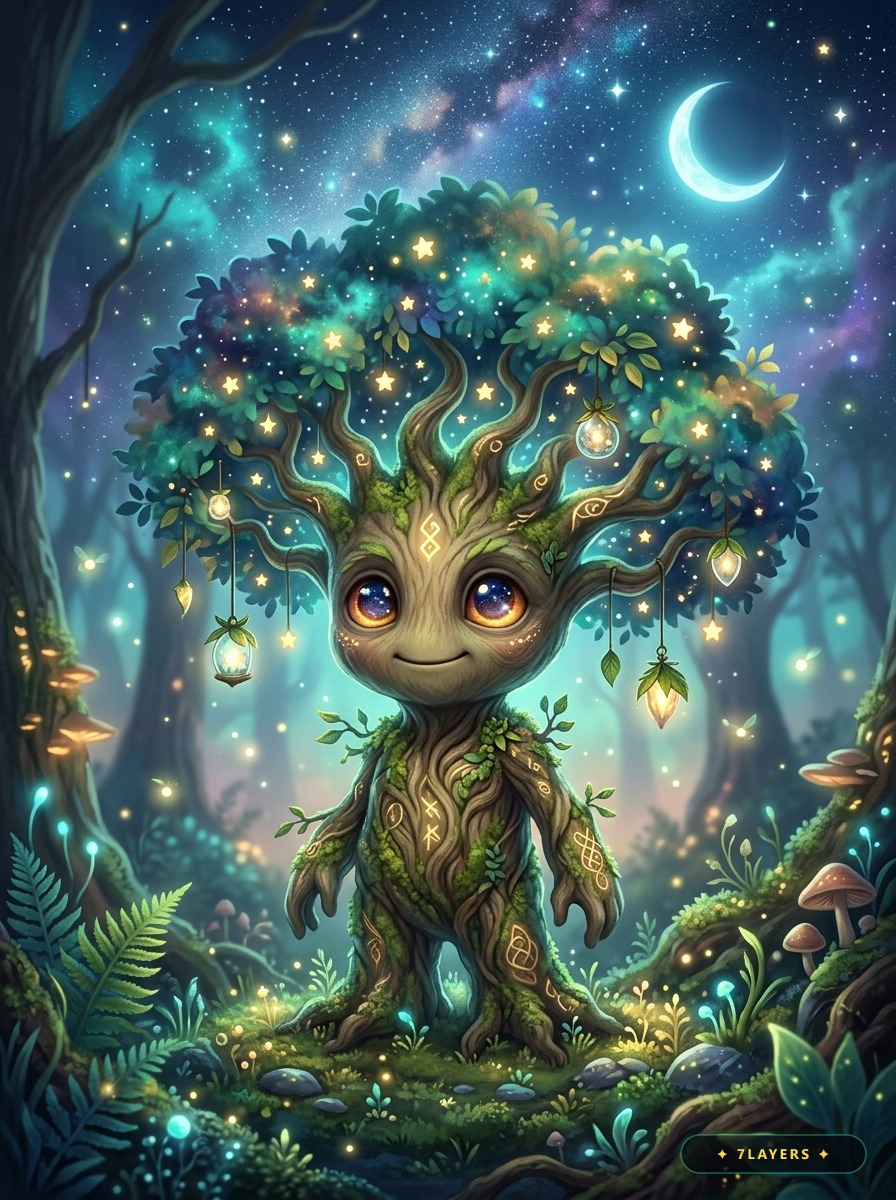
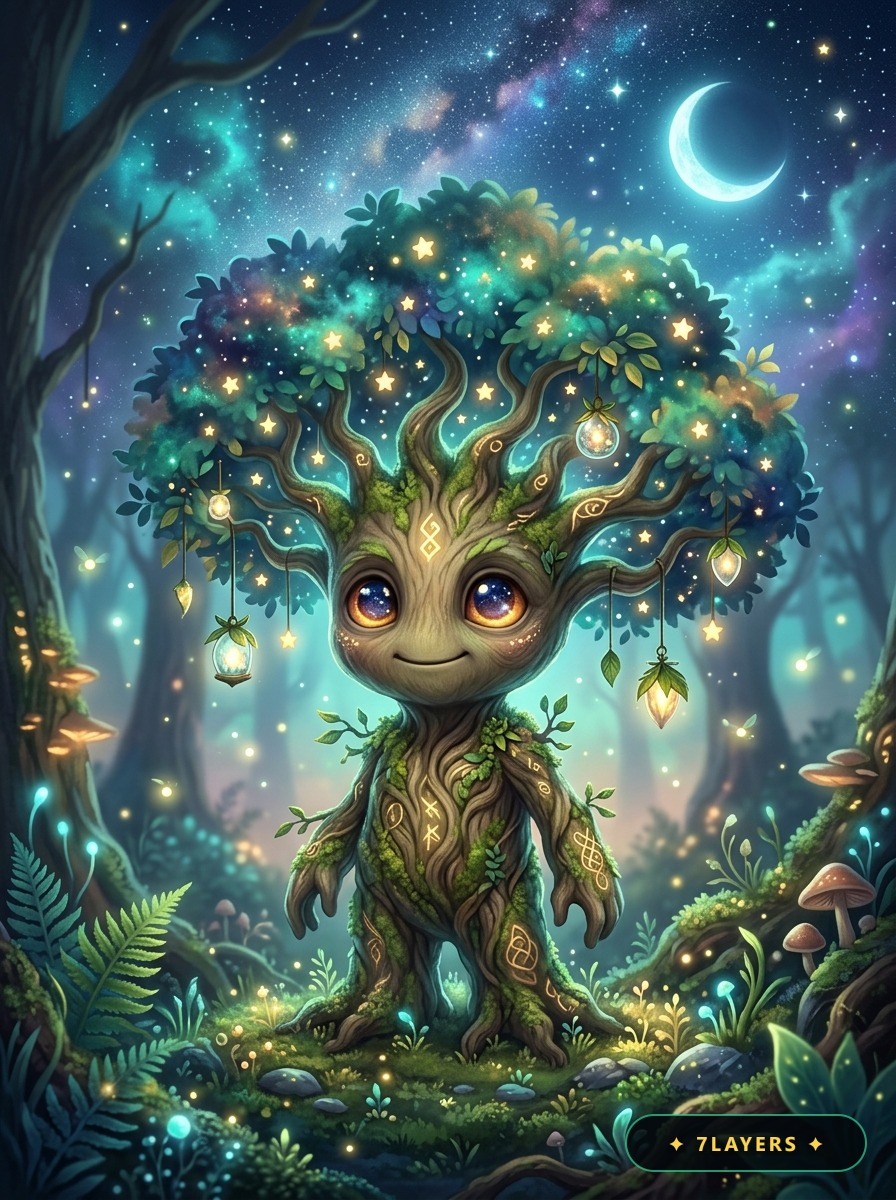
fix(druid-tree): center card character framing and stamp clean single 7LAYERS watermark badge

Changed region(s): [[0.6875, 0.925, 0.9688, 0.9867]]

diff --git a/src/app/analysis/druid-tree/page.tsx b/src/app/analysis/druid-tree/page.tsx
@@ -74,7 +74,7 @@ export default function DruidTreePage() {
       setDownloadingImage(true);
       const imgUrl = isCard
         ? `/api/astrology/druid-tree-card?treeId=${treeId}${analyzedName ? `&name=${encodeURIComponent(analyzedName)}` : ''}`
-        : `/druid-trees/${treeId}.jpg`;
+        : `/druid-trees/${treeId}.jpg?v=7layers-art-v2`;
       const response = await fetch(imgUrl);
       const blob = await response.blob();
       const blobUrl = window.URL.createObjectURL(blob);
@@ -540,7 +540,7 @@ export default function DruidTreePage() {
                       src={
                         activeShareFormat === 'card'
                           ? `/api/astrology/druid-tree-card?treeId=${currentTree.id}${analyzedName ? `&name=${encodeURIComponent(analyzedName)}` : ''}`
-                          : `/druid-trees/${currentTree.id}.jpg`
+                          : `/druid-trees/${currentTree.id}.jpg?v=7layers-art-v2`
                       } 
                       alt={`${analyzedName ? `${analyzedName}'in ` : ''}${currentTree.name} - Kelt Druid Ağacı`} 
                       className="relative w-full max-w-[340px] sm:max-w-[380px] mx-auto rounded-3xl shadow-2xl border-2 border-emerald-400/40 transform transition-transform duration-300 hover:scale-[1.01]"
@@ -651,7 +651,7 @@ export default function DruidTreePage() {
                   <div className="flex items-center gap-3">
                     <div className="w-12 h-14 rounded-xl bg-emerald-500/10 border border-emerald-500/30 overflow-hidden relative group-hover:border-emerald-400/60 transition-colors shrink-0 flex items-center justify-center">
                       <img 
-                        src={`/druid-trees/${tree.id}.jpg`} 
+                        src={`/druid-trees/${tree.id}.jpg?v=7layers-art-v2`} 
                         alt={tree.name}
                         className="w-full h-full object-cover transform group-hover:scale-110 transition-transform duration-300"
                       />
@@ -770,7 +770,7 @@ export default function DruidTreePage() {
                 <div className="flex flex-col sm:flex-row items-center sm:items-start gap-5 border-b border-white/10 pb-5 pr-10">
                   <div className="relative group shrink-0">
                     <img 
-                      src={`/druid-trees/${selectedModalTree.id}.jpg`} 
+                      src={`/druid-trees/${selectedModalTree.id}.jpg?v=7layers-art-v2`} 
                       alt={selectedModalTree.name}
                       className="w-24 h-32 sm:w-28 sm:h-36 rounded-2xl border-2 border-emerald-400/40 shadow-xl object-cover"
                     />

diff --git a/scripts/apply-watermark.ts b/scripts/apply-watermark.ts
@@ -14,22 +14,22 @@ async function main() {
       continue;
     }
 
-    const inputBuffer = await fs.promises.readFile(imgPath);
+    const inputBuffer = fs.readFileSync(imgPath);
     const meta = await sharp(inputBuffer).metadata();
     const W = meta.width || 896;
     const H = meta.height || 1200;
 
-    // Seçenek 1: Lüks Yarı Saydam Rozet
+    // Seçenek 1: Belirgin, Net ve Şık 7LAYERS Rozeti (Tek Katman)
     const svgBadge = `
       <svg width="${W}" height="${H}" viewBox="0 0 ${W} ${H}" xmlns="http://www.w3.org/2000/svg">
         <defs>
-          <filter id="shadow" x="-20%" y="-20%" width="140%" height="140%">
-            <feDropShadow dx="0" dy="2" stdDeviation="3" flood-color="#000000" flood-opacity="0.8"/>
+          <filter id="glow" x="-30%" y="-30%" width="160%" height="160%">
+            <feDropShadow dx="0" dy="3" stdDeviation="4" flood-color="#000000" flood-opacity="0.9"/>
           </filter>
         </defs>
-        <g transform="translate(${W - 215}, ${H - 65})">
-          <rect width="185" height="38" rx="19" fill="#04090E" fill-opacity="0.75" stroke="#34D399" stroke-opacity="0.45" stroke-width="1.5"/>
-          <text x="92" y="24" font-family="'Segoe UI', Roboto, sans-serif" font-size="14" font-weight="bold" fill="#FCD34D" text-anchor="middle" letter-spacing="2.5" filter="url(#shadow)">
+        <g transform="translate(${W - 270}, ${H - 85})">
+          <rect width="240" height="56" rx="28" fill="#04090E" fill-opacity="0.85" stroke="#34D399" stroke-opacity="0.7" stroke-width="2"/>
+          <text x="120" y="36" font-family="'Segoe UI', Roboto, sans-serif" font-size="20" font-weight="800" fill="#FCD34D" text-anchor="middle" letter-spacing="3" filter="url(#glow)">
             ✦ 7LAYERS ✦
           </text>
         </g>
@@ -41,17 +41,17 @@ async function main() {
       .jpeg({ quality: 92 })
       .toBuffer();
 
-    await fs.promises.writeFile(imgPath, watermarkedBuffer);
+    fs.writeFileSync(imgPath, watermarkedBuffer);
     console.log(`Watermarked web: ${tree.id}.jpg`);
 
     if (fs.existsSync(mobPublicDir)) {
       const mobImgPath = path.join(mobPublicDir, `${tree.id}.jpg`);
-      await fs.promises.writeFile(mobImgPath, watermarkedBuffer);
+      fs.writeFileSync(mobImgPath, watermarkedBuffer);
       console.log(`Watermarked mobile: ${tree.id}.jpg`);
     }
   }
 
-  console.log('All 13 Druid Tree images successfully stamped with 7LAYERS badge!');
+  console.log('All 13 Druid Tree images successfully stamped with clean 7LAYERS badge!');
 }
 
 main().catch(console.error);

diff --git a/src/features/astrology/server/druidTreeCardService.ts b/src/features/astrology/server/druidTreeCardService.ts
@@ -76,9 +76,9 @@ export function formatTurkishPossessive(name: string): string {
 export async function renderDruidTreeCard(tree: DruidTree, rawImagePath: string, personName?: string): Promise<Buffer> {
   const rawBuffer = await fs.promises.readFile(rawImagePath);
 
-  // Resize inner art to 920x760
+  // Resize inner art to 920x760 with center positioning so characters are framed
   const resizedInnerImg = await sharp(rawBuffer)
-    .resize(INNER_IMG_WIDTH, INNER_IMG_HEIGHT, { fit: 'cover', position: 'top' })
+    .resize(INNER_IMG_WIDTH, INNER_IMG_HEIGHT, { fit: 'cover', position: 'center' })
     .toBuffer();
 
   // Create rounded mask for inner image
